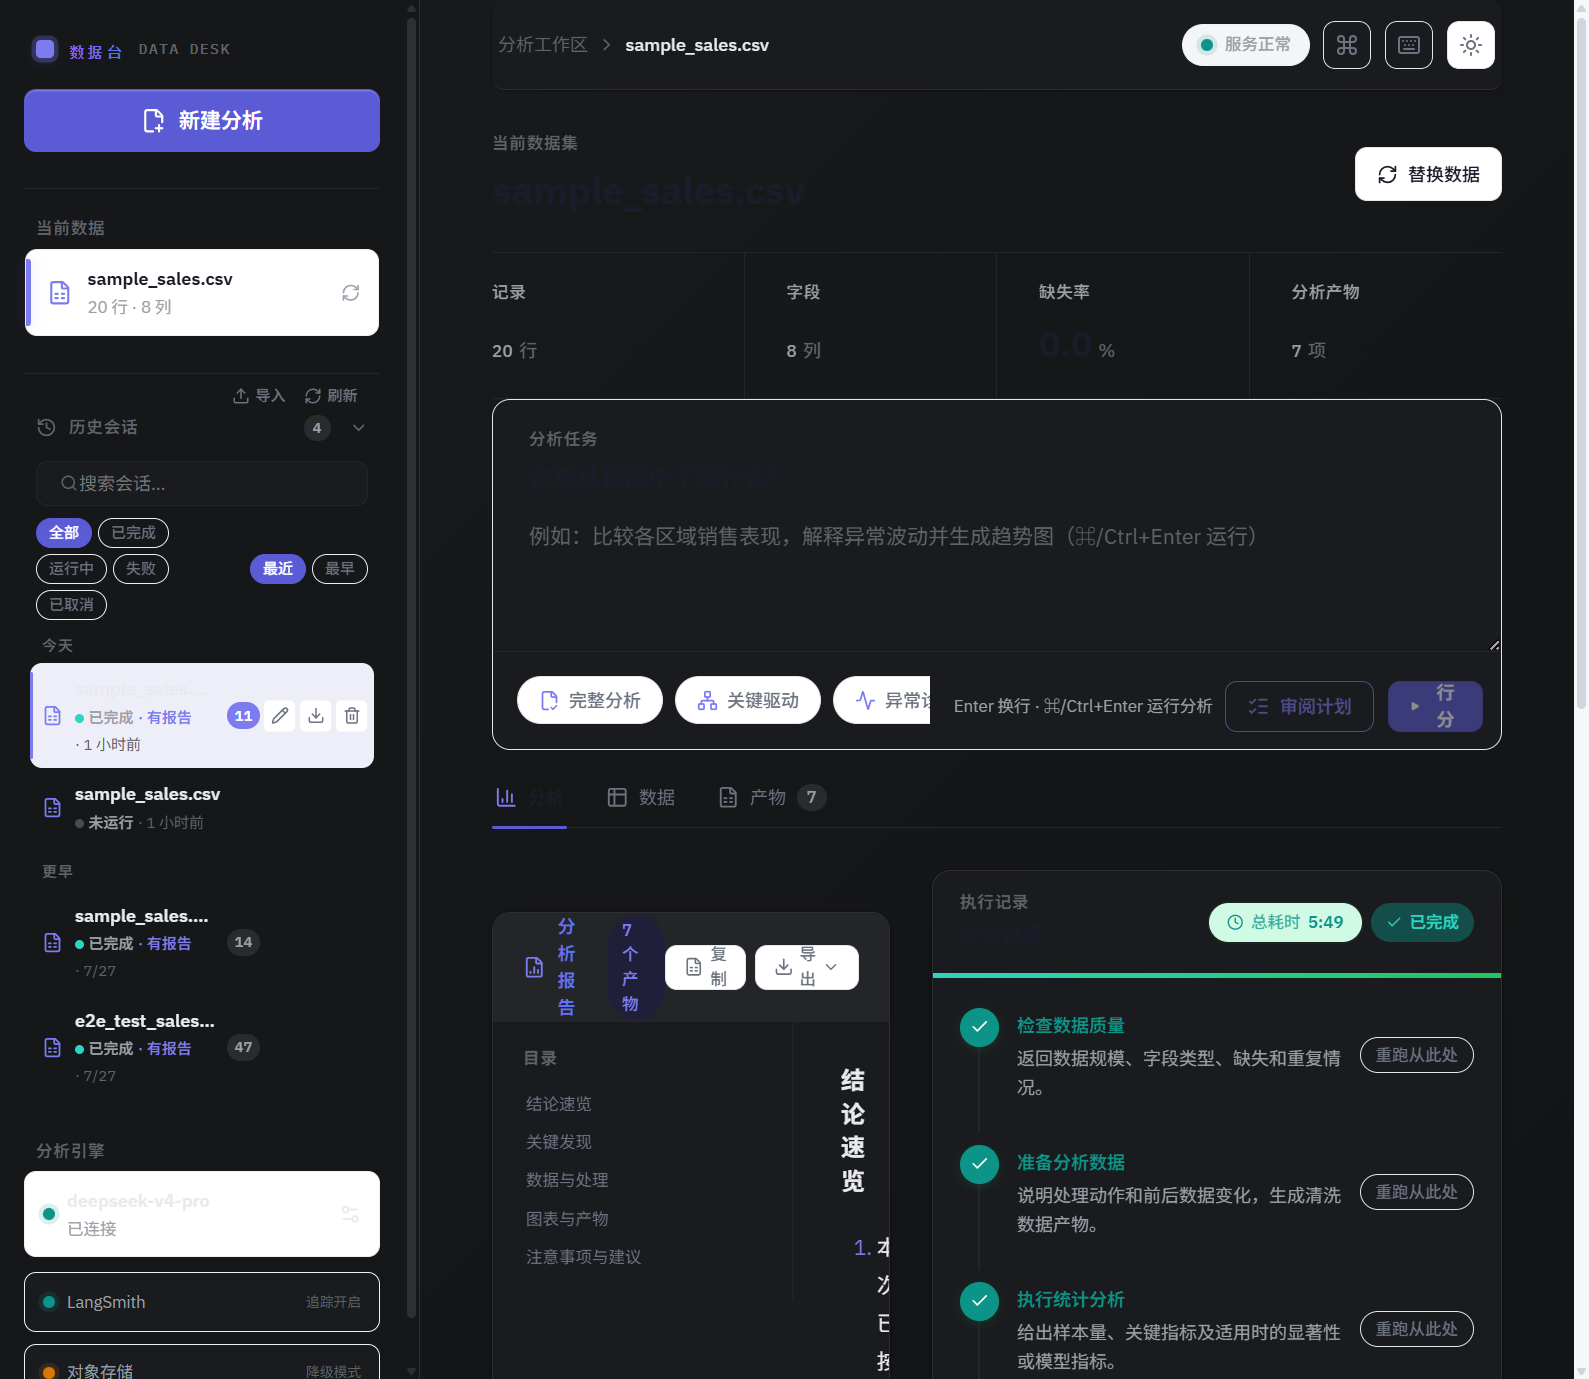
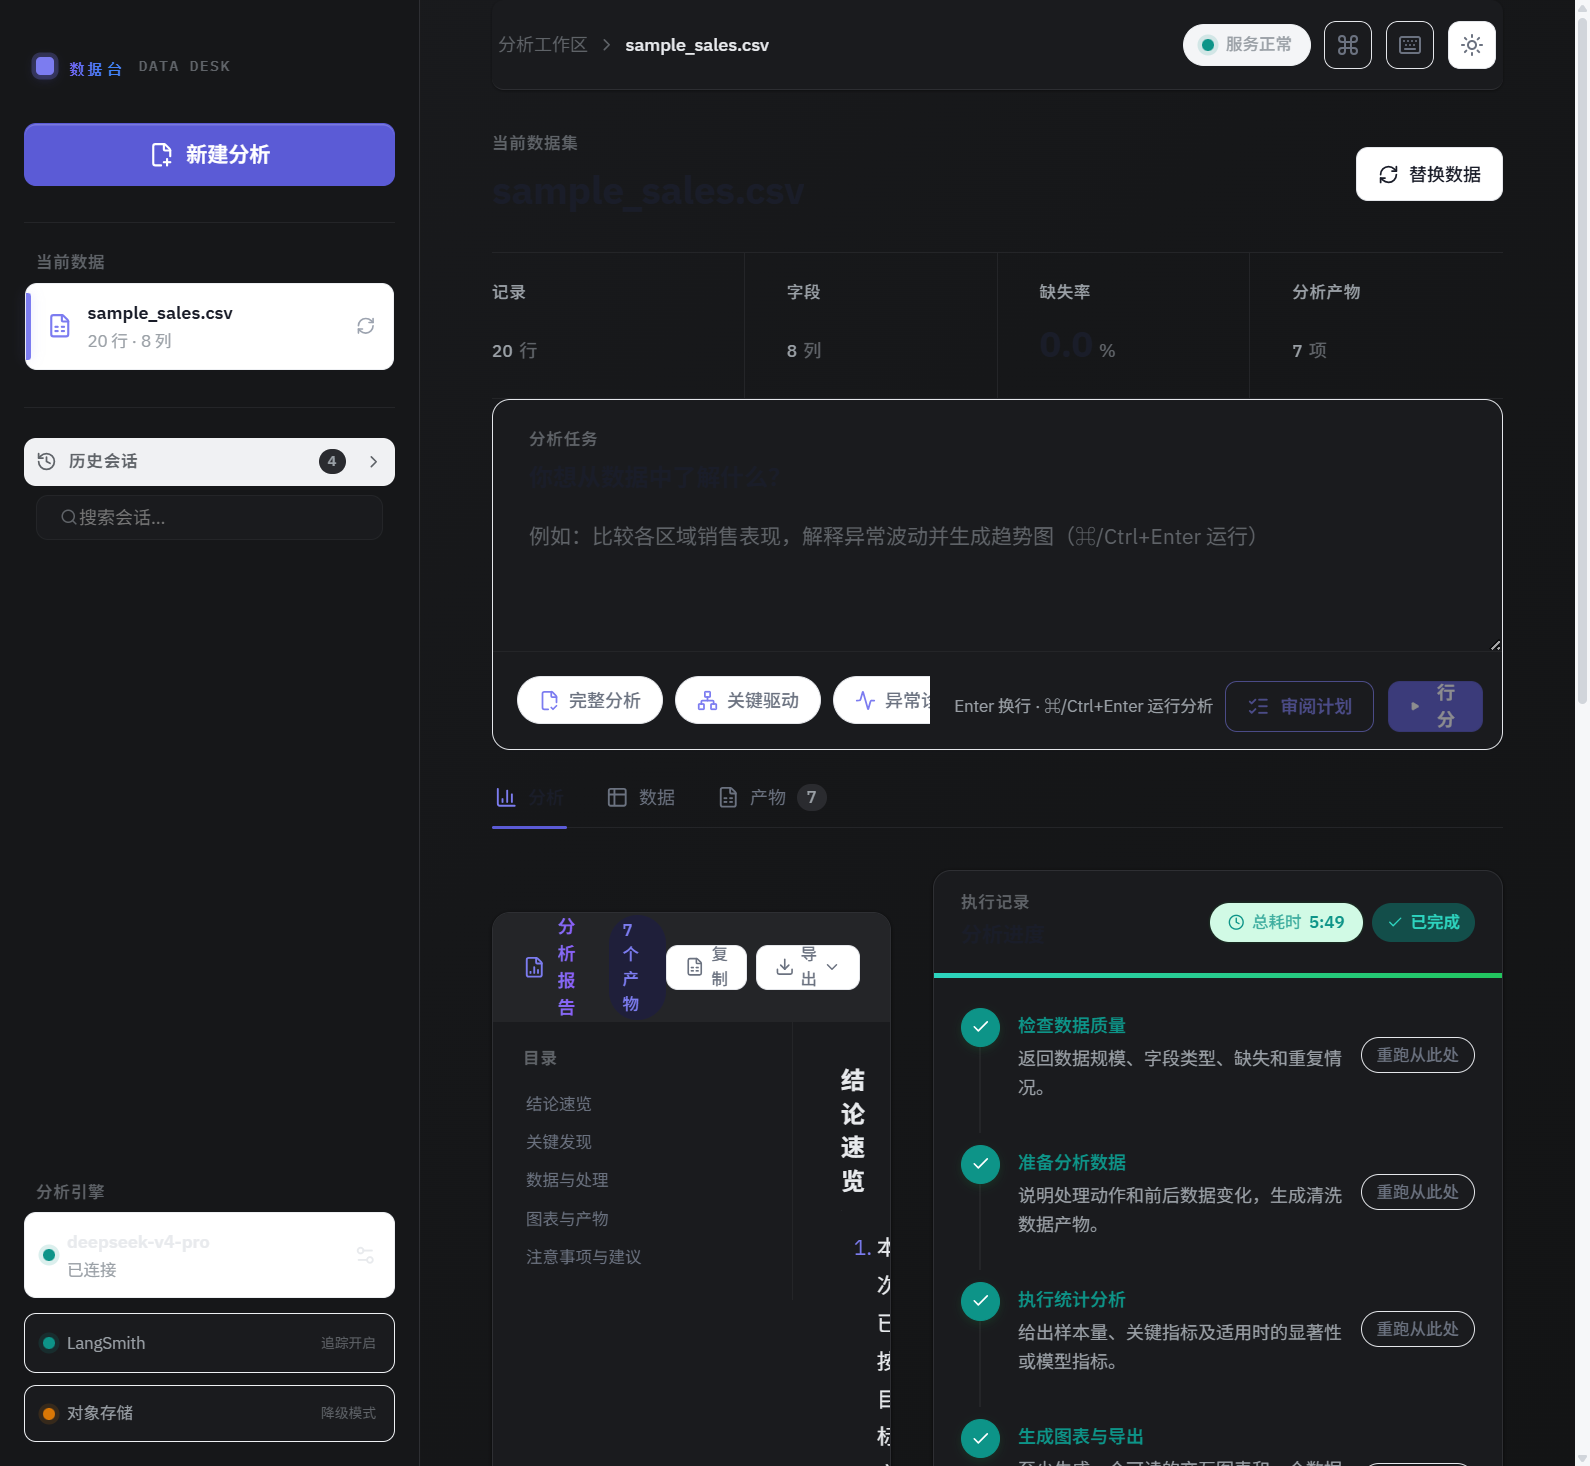
docs: refresh README screenshots to current UI, add data preview
The previous screenshots predated the legend/modebar/localization fixes:
legends were still right-side, tooltips English, spacing uneven. All
five screenshots re-captured from the current UI (horizontal bottom
legend, Chinese modebar, even spacing, right-aligned numeric columns,
clean date format), plus a new data-preview shot. The preview table no
longer duplicates the hero image.

diff --git a/README.md b/README.md
@@ -41,11 +41,11 @@ flowchart LR
 
 ## 界面预览
 
-| 浅色主题 · 分析工作区 | 深色主题 · 分析工作区 |
+| 深色主题 · 分析工作区 | 产物中心 · 图表与数据文件 |
 | :---: | :---: |
-| <img src="docs/screenshots/overview-light.png" alt="浅色主题主界面" width="100%" /> | <img src="docs/screenshots/overview-dark.png" alt="深色主题主界面" width="100%" /> |
-| 产物中心 · 图表与数据文件 | 图表预览 · 交互式 Plotly / ECharts |
-| <img src="docs/screenshots/artifacts-light.png" alt="产物中心" width="100%" /> | <img src="docs/screenshots/preview-light.png" alt="图表预览模态" width="100%" /> |
+| <img src="docs/screenshots/overview-dark.png" alt="深色主题主界面" width="100%" /> | <img src="docs/screenshots/artifacts-light.png" alt="产物中心" width="100%" /> |
+| 图表预览 · 中文工具栏与横向图例 | 数据预览 · 类型识别与列对齐 |
+| <img src="docs/screenshots/preview-light.png" alt="图表预览模态" width="100%" /> | <img src="docs/screenshots/data-preview.png" alt="数据预览表格" width="100%" /> |
 
 ## 功能特性
 
